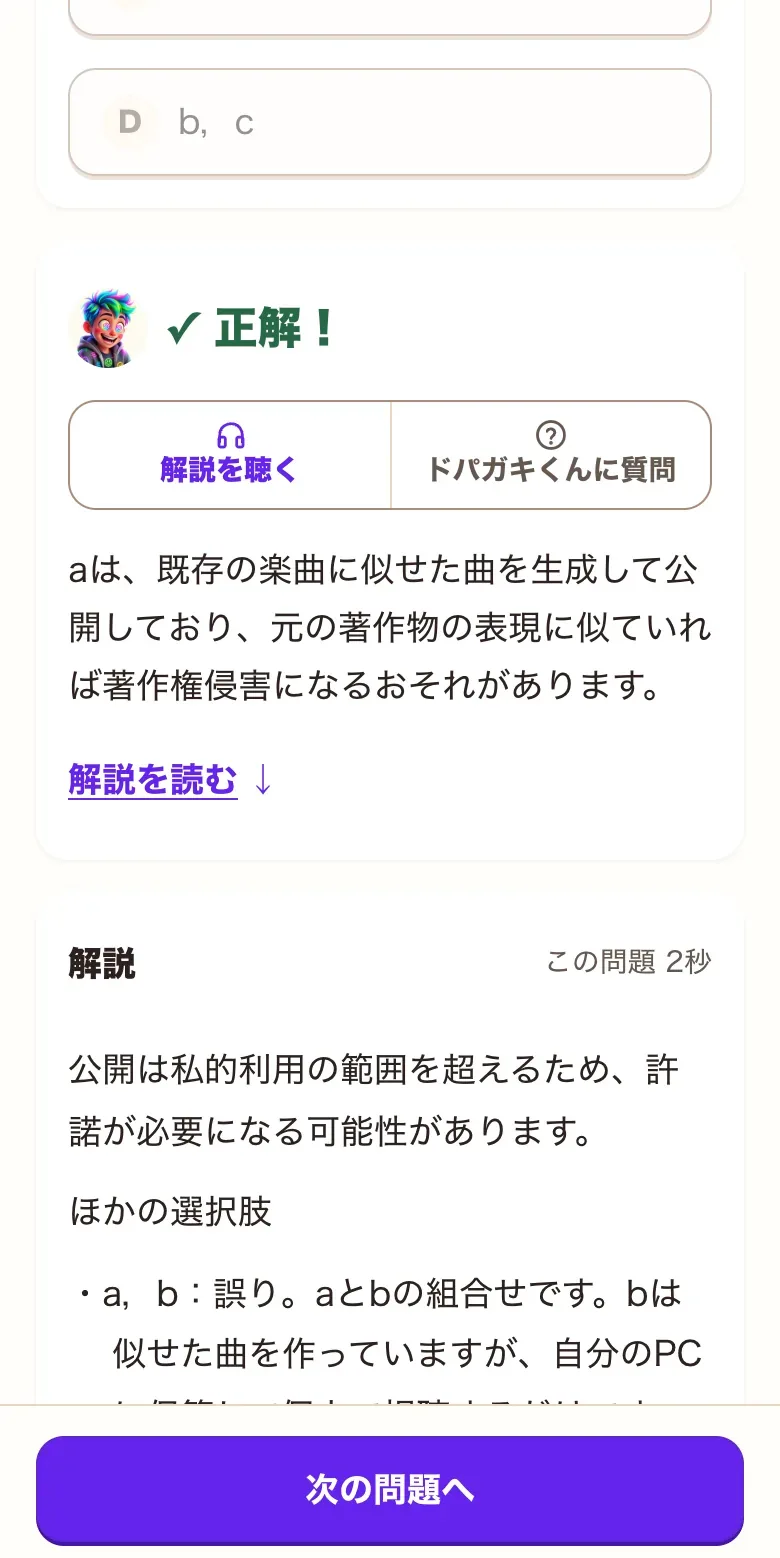
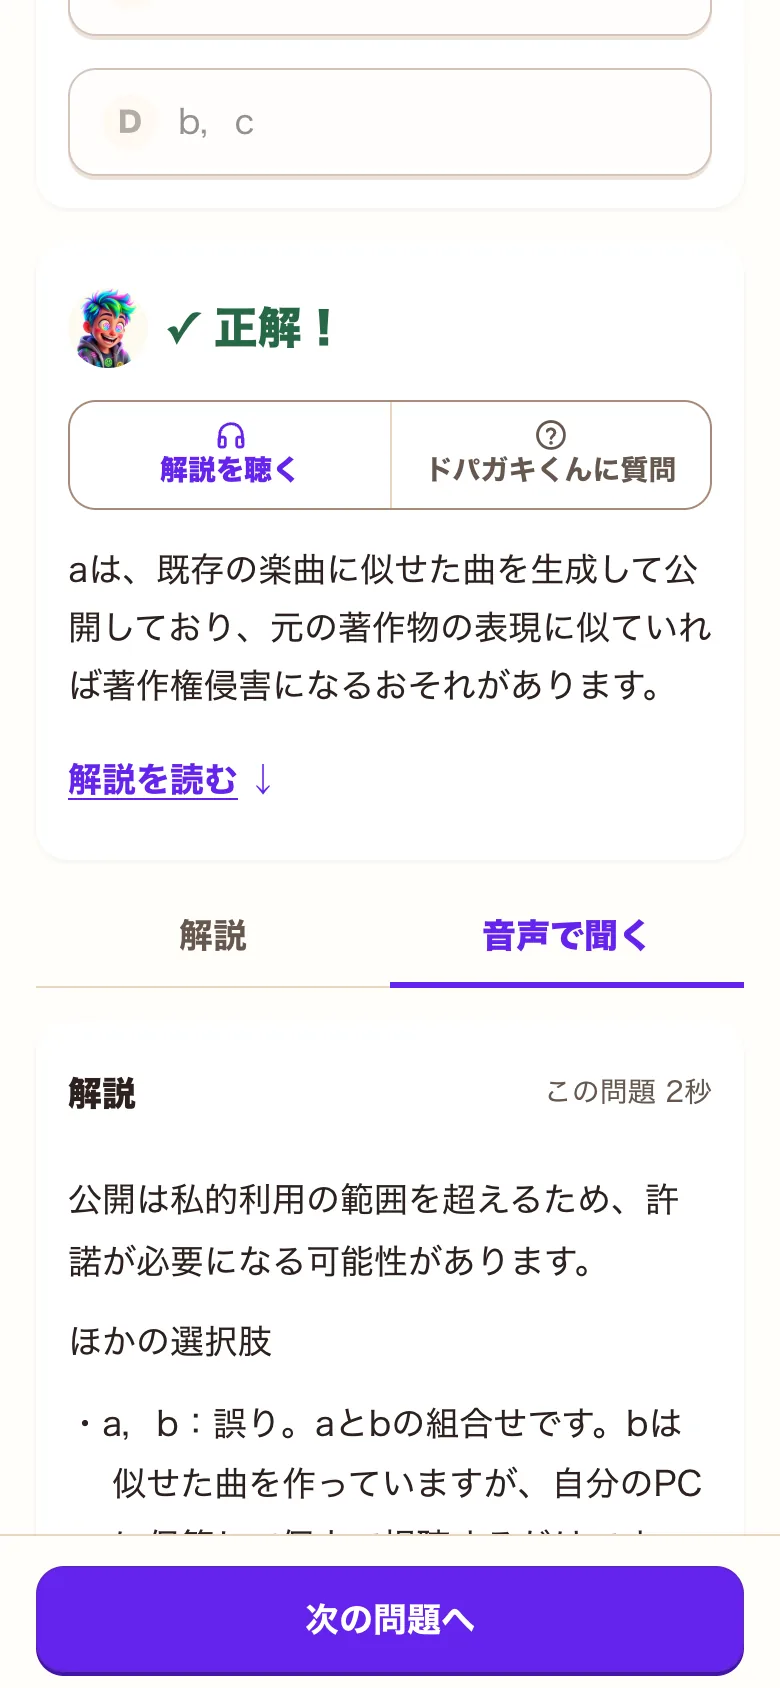
答えた後の画面の写真を、みんなの解説が止まった後の本番の画面に差し替える

diff --git a/index.html b/index.html
@@ -383,7 +383,7 @@ section{scroll-margin-top:64px;overflow-x:clip}
           <div class="no">02</div><h3>答えを読む</h3>
           <ol><li>選ぶとすぐ、正解・不正解と解説が出ます。</li><li>ほかの選択肢が、なぜ違うかも書いてあります。</li><li>「解説を聴く」で音声、「ドパガキくんに質問」で分からない所を聞けます。</li></ol>
           <p class="hint">分からなくても、まず1つ選んでから解説を読むと、記憶に残りやすくなります。</p>
-          <img class="mobile-shot" src="app/sp-answer-read.webp" width="780" height="1558" loading="lazy" alt="スマホで正解した後の画面。正解の札、解説を聴く・ドパガキくんに質問のボタン、その下に解説">
+          <img class="mobile-shot" src="app/sp-answer-read.webp" width="780" height="1688" loading="lazy" alt="スマホで正解した後の画面。正解の札、解説を聴く・ドパガキくんに質問のボタン、その下に解説と音声で聞くのタブと解説">
         </article>
         <article class="step" data-shot="2">
           <div class="no">03</div><h3>作る</h3>
@@ -403,7 +403,7 @@ section{scroll-margin-top:64px;overflow-x:clip}
       <span class="bignum" id="bignum">01</span>
       <div class="phone" id="phone"><span class="notch"></span><div class="screen">
         <img class="on" src="app/sp-quiz.webp" width="780" height="1688" alt="">
-        <img src="app/sp-answer-read.webp" width="780" height="1558" alt="">
+        <img src="app/sp-answer-read.webp" width="780" height="1688" alt="">
         <img src="app/sp-make-ai.webp" width="780" height="1688" alt="">
         <img src="app/sp-shelf.webp" width="780" height="1688" alt="">
       </div></div>
